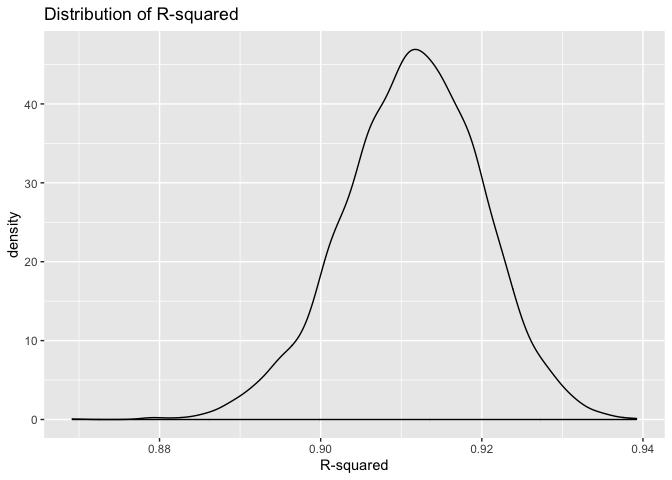
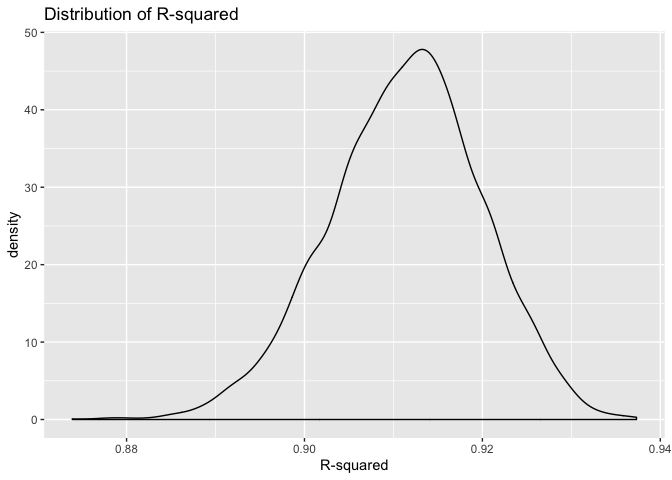
adding descriptions to plots

diff --git a/p8105_hw6_tal2145.md b/p8105_hw6_tal2145.md
@@ -8,8 +8,9 @@ Troy Layouni
 
 #### Part 1: Loading and cleaning `birthweight` dataset
 
-  - Loading csv
-  - cleaning variable types
+  - Loading `birthweight.csv`
+  - cleaning variable types and recoding values to meaningful names
+  - checked for missing data
 
 <!-- end list -->
 
@@ -35,9 +36,20 @@ birthweight_df =
 
     ## See spec(...) for full column specifications.
 
+``` r
+colSums(is.na(birthweight_df))
+```
+
+    ##  babysex    bhead  blength      bwt    delwt  fincome    frace  gaweeks 
+    ##        0        0        0        0        0        0        0        0 
+    ##  malform menarche  mheight   momage    mrace   parity  pnumlbw  pnumsga 
+    ##        0        0        0        0        0        0        0        0 
+    ##    ppbmi     ppwt   smoken   wtgain 
+    ##        0        0        0        0
+
 #### Part 2: Building a linear model
 
-First proposed linear model:
+Proposed linear model:
 
   - this model was created through a data-driven process, adding in
     variables one at a time, to see whether they were significant and
@@ -86,7 +98,7 @@ summary(fit)
     ## Multiple R-squared:  0.7092, Adjusted R-squared:  0.7087 
     ## F-statistic:  1510 on 7 and 4334 DF,  p-value: < 2.2e-16
 
-#### Part 3: Plotting the residuals against the fitted values
+#### Part 3: Plotting the residuals against the fitted values for the hypothesized model
 
 ``` r
 birthweight_df %>% 
@@ -109,7 +121,7 @@ birthweight_df %>%
     between the three models
 
 **Using `crossv_mc` to perform the training/testing split and storing
-the data as a data frame**
+the data as a dataframe**
 
 ``` r
 cv_df = 
@@ -160,12 +172,12 @@ cv_df %>%
 ![](p8105_hw6_tal2145_files/figure-gfm/unnamed-chunk-6-1.png)<!-- -->
 
 Based on the above plot showing the variance in prediction error
-distribution across the three models, it appears the hyptohesized model
+distribution across the three models, it appears the hypothesized model
 that I created is optimal, but only slightly better than the model that
 contains head circumference, length, sex and all interaction terms
-between them. We can see this because `fit` or my hypothesized model has
-the lowest RMSE distribution of all three models and this means it is a
-better predictor of birthweight in thid sample.
+between them. We can see this because `fit` or my hypothesized model,
+has the lowest RMSE distribution of all three models and this means it
+is a better predictor of birthweight in this sample.
 
 ## Problem 2
 
@@ -204,11 +216,13 @@ weather_df =
 #### Part 1: Drawing boostrapping samples from `weather_df`
 
   - drawing 5000 bootstrapped samples
-  - creatiing log(B1\*B0) variable
+  - creating log(B1\*B0) variable
 
 <!-- end list -->
 
 ``` r
+set.seed(1)
+
 weather_bootstrapped = 
   weather_df %>% 
   modelr::bootstrap(n = 5000) %>% 
@@ -237,6 +251,8 @@ weather_bootstrapped =
 
 #### Plotting distribution of r-squared and product of the betas.
 
+\*\*Plotting log (β1\*β2) Distribution\*\*
+
 ``` r
 weather_bootstrapped %>% 
   ggplot(aes(x = product_logb)) +
@@ -249,6 +265,12 @@ weather_bootstrapped %>%
 
 ![](p8105_hw6_tal2145_files/figure-gfm/unnamed-chunk-9-1.png)<!-- -->
 
+The distribution of log (β1\*β2) for the 5000 boostrapped samples
+appears to be normally distributed and symmetric, with a peak around
+2.02 or so and most of the data between 1.975 and 2.05.
+
+**Plotting log R-squared Distribution**
+
 ``` r
 weather_bootstrapped %>% 
   ggplot(aes(x = r.squared)) +
@@ -260,6 +282,12 @@ weather_bootstrapped %>%
 ```
 
 ![](p8105_hw6_tal2145_files/figure-gfm/unnamed-chunk-10-1.png)<!-- -->
+
+The distribution for the r-squared values of our 5000 bootstrapped
+samples has a peak around 1.93 or so with most values between 0.89 and
+0.93. While it appears to be normally distributed, it looks like it is
+slightly left-skewed, with a longer tail on the left side of the
+distribution.
 
 #### 95% Confidence Intervals for R-squared
 
@@ -276,7 +304,10 @@ weather_bootstrapped %>%
     ## # A tibble: 1 x 2
     ##   lower_CI upper_CI
     ##      <dbl>    <dbl>
-    ## 1    0.894    0.928
+    ## 1    0.894    0.927
+
+The 95% Confidence interval for the r-squared in our bootstrapped
+samples is 0.894 to 0.927.
 
 #### 95% Confidence Intervals for log (β1\*β2)
 
@@ -293,4 +324,7 @@ weather_bootstrapped %>%
     ## # A tibble: 1 x 2
     ##   lower_CI upper_CI
     ##      <dbl>    <dbl>
-    ## 1     1.97     2.06
+    ## 1     1.96     2.06
+
+The 95% Confidence interval for log (β1\*β2) in our bootstrapped samples
+is 1.96 to 2.06.
